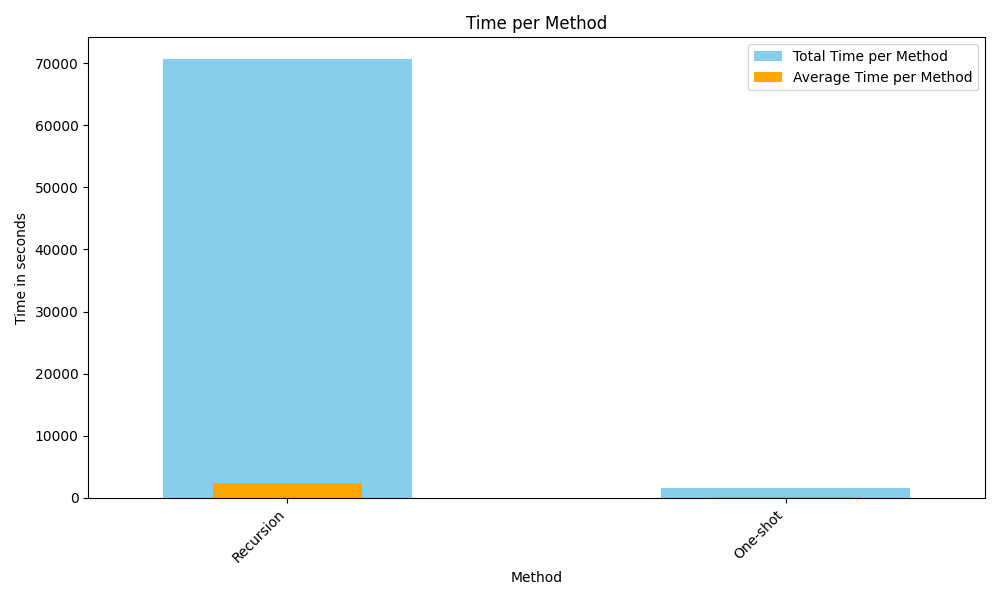
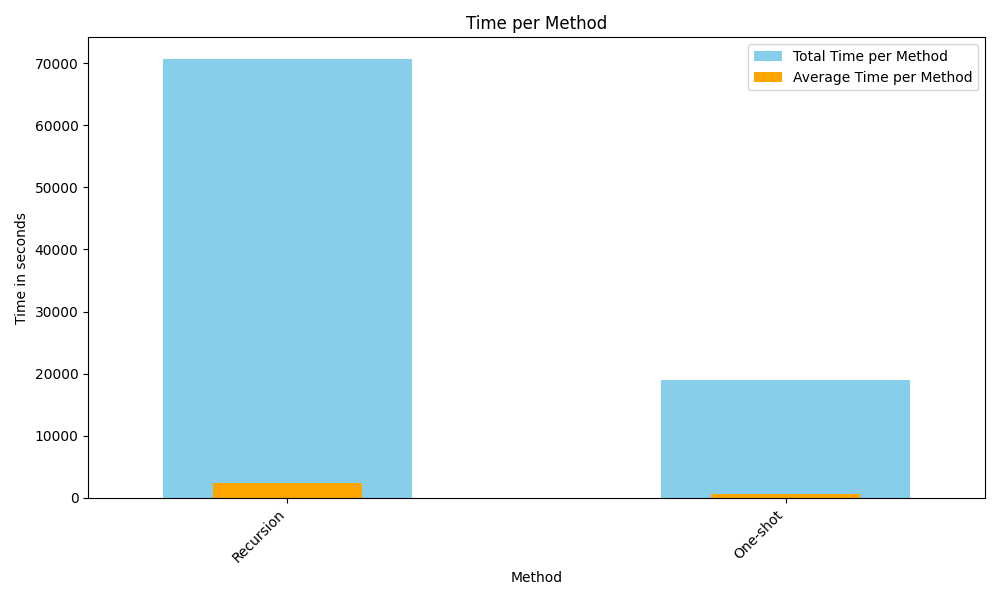
Make time analysis comparable by only using d2v data

Changed region(s): [[0.651, 0.63, 0.93, 0.84]]

diff --git a/src/Result_Analysis/time_analysis_sm/time_analysis_sm.py b/src/Result_Analysis/time_analysis_sm/time_analysis_sm.py
@@ -37,55 +37,46 @@ def main():
                 elif line.startswith(comp_sentence):
                     time = float(line.split(comp_sentence)[1])
                     comp_times.append(time)
-                elif line.startswith(pred_sentence):
-                    pred_time = float(line.split(pred_sentence)[1])
+                # elif line.startswith(pred_sentence):
+                    # pred_time = float(line.split(pred_sentence)[1])
 
-            # Handle timeout case
-            if timeout:
-                new_row = pd.DataFrame([{
-                    "Method": method,
-                    "Dataset": dataset,
-                    "Task": "Calculate Comparison Matrix",
-                    "Time": 3600.0
-                }])
-                times = pd.concat([times, new_row], ignore_index=True)
-
-            else:
-                # Use last occurrence for Comparison Matrix
-                if comp_times:
+                # Handle timeout case
+                if timeout:
                     new_row = pd.DataFrame([{
                         "Method": method,
                         "Dataset": dataset,
                         "Task": "Calculate Comparison Matrix",
-                        "Time": comp_times[-1]
+                        "Time": 3600.0
                     }])
                     times = pd.concat([times, new_row], ignore_index=True)
 
-                # Add Predict Improvement time
-                if pred_time is not None:
-                    new_row = pd.DataFrame([{
-                        "Method": method,
-                        "Dataset": dataset,
-                        "Task": "Predict Improvement",
-                        "Time": pred_time
-                    }])
-                    times = pd.concat([times, new_row], ignore_index=True)
+                else:
+                    # Use last occurrence for Comparison Matrix
+                    if comp_times:
+                        new_row = pd.DataFrame([{
+                            "Method": method,
+                            "Dataset": dataset,
+                            "Task": "Calculate Comparison Matrix",
+                            "Time": comp_times[-1]
+                        }])
+                        times = pd.concat([times, new_row], ignore_index=True)
 
     time_per_method = times.groupby("Method")["Time"].sum().sort_values(ascending=False)
-    average_time_per_method = times.groupby("Method")["Time"].mean().sort_values(ascending=False)
-
+    average_recursion = time_per_method.values[0] / 12
+    average_best = time_per_method.values[1] / 12
+    average_time_per_method = pd.Series([average_recursion, average_best], index=["Recursion", "Best"])
     # Plot
     plt.figure(figsize=(10, 6))
-    time_per_method.plot(kind='bar', color='skyblue', label='Total Time per Method')
-    average_time_per_method.plot(kind='bar', width=0.3, color='orange', label='Average Time per Method')
+    time_per_method.plot(kind='bar', color='skyblue', label='Total Time for 12 Datasets per Surrogate Model')
+    average_time_per_method.plot(kind='bar', width=0.3, color='orange', label='Average Time over 12 Datasets per Surrogate Model')
     plt.legend()
     plt.xlabel("Method")
     plt.ylabel("Time in seconds")
-    plt.title("Time per Method")
+    plt.title("Time Usage of Surrogate Models")
     plt.xticks(rotation=45, ha="right")
     # plt.yscale('log')
     plt.tight_layout()
-    plt.savefig("Time_for_SM_per_Method.png")
+    plt.savefig("Time_SM_oneshot_recursive.png")
     plt.show()
 
 
